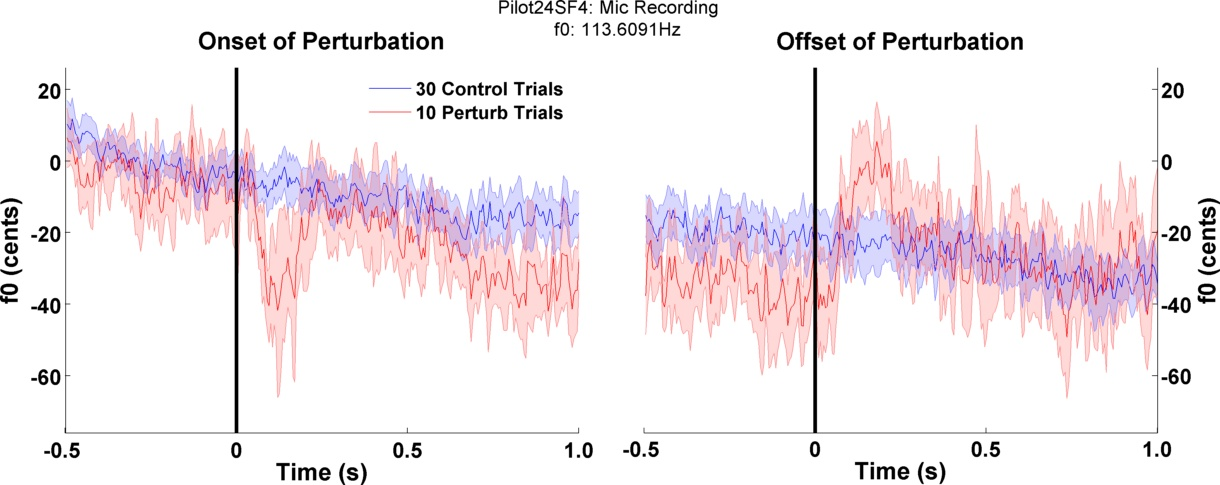
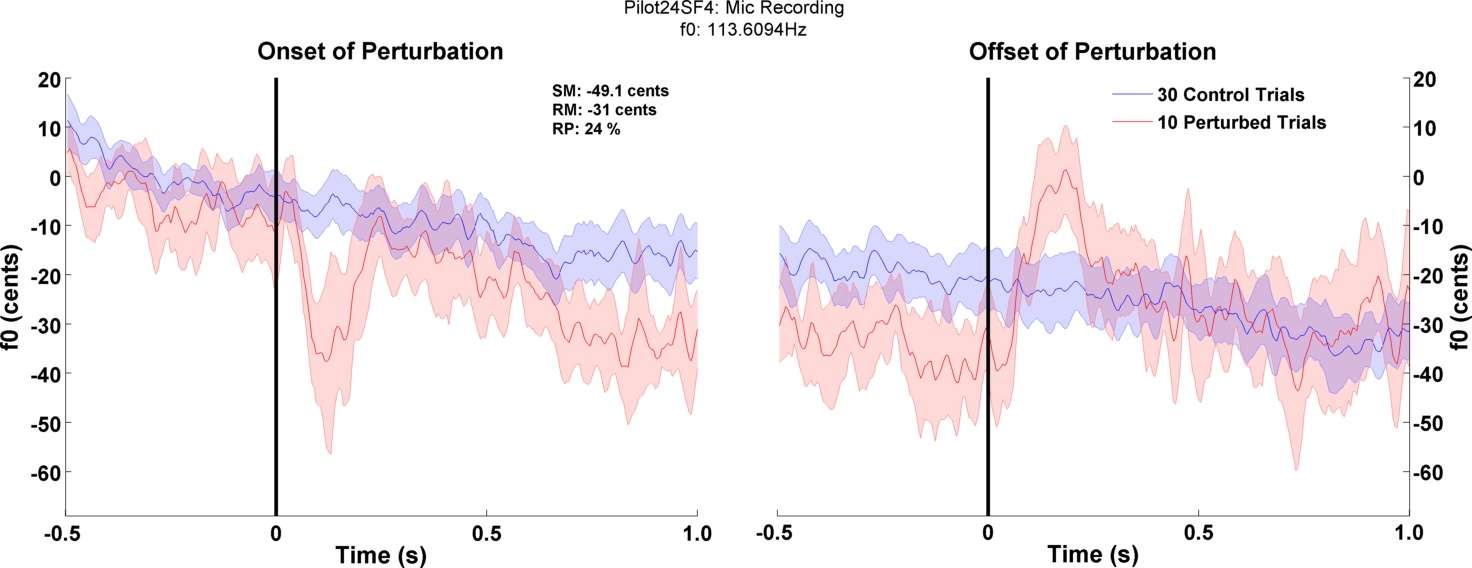
more plots than you know what to do with
here they all are. Love them. Cherish them.

diff --git a/Analysis/dfRunSubjPlotting.m b/Analysis/dfRunSubjPlotting.m
@@ -2,70 +2,78 @@ function dfRunSubjPlotting()
 %The function that draws the plots from analyzed results
 
 clear all; close all; clc
-PltVar.project      = 'Dissociating-Role-of-Feedback-in-Voice-Motor-Control';
-PltVar.participant  = 'Pilot26'; %List of multiple participants.
-PltVar.run          = 'SF4';
+sPlt.project       = 'Dissociating-Role-of-Feedback-in-Voice-Motor-Control';
+sPlt.participants  = {'Pilot24'; 'Pilot25'; 'Pilot26'; 'Pilot22'}; %List of multiple participants.
+sPlt.numPart       = length(sPlt.participants);
+sPlt.runs          = {'SF1'; 'SF2'; 'SF3'; 'SF4'}; %All runs to consider 
+sPlt.numRuns       = length(sPlt.runs);
+dirs               = dfDirs(sPlt.project);
 
 %Plot Toggles. This could eventually become an input variable
 sv2File                = 0;
-PltVar.NIDAQ_allCh     = 0; %Voltage trace of force sensor signal
-PltVar.NIDAQ_PresMic   = 0;
-PltVar.NIDAQ_AligSens  = 0;
-PltVar.NIDAQ_AllPertTrial = 0;
-PltVar.NIDAQ_MeanTrialMicf0 = 1;
-PltVar.IntraTrial_T    = 0; %SPL trace of individual trial
-PltVar.IntraTrial_f0   = 0; %f0 trace for each individual trial
-PltVar.InterTrial_f0   = 0; %Average f0 trace over all trials of a run
-PltVar.IntraTrialP_f0  = 0; %f0 trace of pertrubed trials of a run
-PltVar.InterRun_f0       = 0; %Average f0 trace over all runs analyzed
-PltVar.InterTrial_AudRes = 0; %Average f0 response trace to auditory pert trials of a run
-PltVar.InterRun_AudRes   = 0; %Average f0 response trace to auditory pert over all runs analyzed
+sPlt.NIDAQ_allCh     = 0; %Voltage trace of force sensor signal
+sPlt.NIDAQ_PresMic   = 0;
+sPlt.NIDAQ_AligSens  = 0;
+sPlt.NIDAQ_AllPertTrial = 0;
+sPlt.NIDAQ_MeanTrialMicf0 = 1;
+sPlt.IntraTrial_T    = 0; %SPL trace of individual trial
+sPlt.IntraTrial_f0   = 0; %f0 trace for each individual trial
+sPlt.InterTrial_f0   = 0; %Average f0 trace over all trials of a run
+sPlt.IntraTrialP_f0  = 0; %f0 trace of pertrubed trials of a run
+sPlt.InterRun_f0       = 0; %Average f0 trace over all runs analyzed
+sPlt.InterTrial_AudRes = 0; %Average f0 response trace to auditory pert trials of a run
+sPlt.InterRun_AudRes   = 0; %Average f0 response trace to auditory pert over all runs analyzed
 
-dirs                = dfDirs(PltVar.project);
-dirs.SavResultsDir  = fullfile(dirs.Results, PltVar.participant, PltVar.run); %Where to save results
-dirs.SavResultsFile = fullfile(dirs.SavResultsDir, [PltVar.participant PltVar.run 'ResultsDRF.mat']); %Where to save results
+for ii = 1:sPlt.numPart
+    participant = sPlt.participants{ii};
+    for jj = 1:sPlt.numRuns 
+        run = sPlt.runs{jj};
+        dirs.SavResultsDir  = fullfile(dirs.Results, participant, run); %Where to save results
+        dirs.SavResultsFile = fullfile(dirs.SavResultsDir, [participant run 'ResultsDRF.mat']); %Where to save results
 
-if exist(dirs.SavResultsFile, 'file') == 0
-    fprintf('\nERROR: File %s does not exist!\n', dirs.SavResultsFile)
-    return
+        if exist(dirs.SavResultsFile, 'file') == 0
+            fprintf('\nERROR: File %s does not exist!\n', dirs.SavResultsFile)
+            return
+        end
+
+        %Load 'auAn' 'auRes' 'niAn' 'niRes'
+        load(dirs.SavResultsFile)
+
+        if sPlt.NIDAQ_AllPertTrial == 1
+            drawDAQAllPertTrialMicf0(niRes, dirs.SavResultsDir)
+        end  
+
+        if sPlt.NIDAQ_MeanTrialMicf0 == 1
+            drawDAQMeanTrialMicf0(niRes, dirs.SavResultsDir)
+        end
+
+        if sPlt.InterTrial_f0 == 1
+            drawInterTrialf0(auRes.timeSec, auRes.meanTrialf0_St, auRes.meanTrialf0_Sp, auRes.f0LimitsSec, auRes.trialCount, auRes.meanTrialf0b, auAn.curSess, '', dirs.SavResultsDir)
+        end
+
+        if sPlt.NIDAQ_PresMic == 1
+            drawDAQPresMic(niRes, dirs.SavResultsDir, sv2File)
+        end
+
+        if sPlt.NIDAQ_AligSens == 1
+            drawDAQAlignedPressure(niRes, dirs.SavResultsDir, sv2File)
+        end
+
+        if sPlt.NIDAQ_allCh == 1
+            drawDAQAll(niAn, 2, dirs.SavResultsDir, sv2File)
+        end
+
+        if sPlt.IntraTrialP_f0 == 1
+            drawAllTrialf0(auRes.time, auRes.allTrialf0, auRes.runTrialOrder, auAn.trigsT, auRes.f0Limits, auRes.meanTrialf0b, auAn.curSess, '', dirs.SavResultsDir)
+        end
+
+        if sPlt.InterTrial_AudRes == 1
+            drawAudResp_AllTrial(auRes, auAn.curSess, DRF.expParam.curSess, dirs.SavResultsDir)
+        end
+
+        if sPlt.InterRun_AudRes == 1
+            drawAudResp_InterTrial(auRes.timeSec, auRes.meanTrialf0_St(:,:,2), auRes.meanTrialf0_Sp(:,:,2), auRes.f0LimitsSec, auRes.trialCount, auRes.meanTrialf0b, auAn.curSess, '', dirs.SavResultsDir)
+        end  
+    end
 end
-
-%Load 'auAn' 'auRes' 'niAn' 'niRes'
-load(dirs.SavResultsFile)
-
-if PltVar.NIDAQ_AllPertTrial == 1
-    drawDAQAllPertTrialMicf0(niRes, dirs.SavResultsDir)
-end  
-
-if PltVar.NIDAQ_MeanTrialMicf0 == 1
-    drawDAQMeanTrialMicf0(niRes, dirs.SavResultsDir)
-end
-
-if PltVar.InterTrial_f0 == 1
-    drawInterTrialf0(auRes.timeSec, auRes.meanTrialf0_St, auRes.meanTrialf0_Sp, auRes.f0LimitsSec, auRes.trialCount, auRes.meanTrialf0b, auAn.curSess, '', dirs.SavResultsDir)
-end
-
-if PltVar.NIDAQ_PresMic == 1
-    drawDAQPresMic(niRes, dirs.SavResultsDir, sv2File)
-end
-
-if PltVar.NIDAQ_AligSens == 1
-    drawDAQAlignedPressure(niRes, dirs.SavResultsDir, sv2File)
-end
-
-if PltVar.NIDAQ_allCh == 1
-    drawDAQAll(niAn, 2, dirs.SavResultsDir, sv2File)
-end
-
-if PltVar.IntraTrialP_f0 == 1
-    drawAllTrialf0(auRes.time, auRes.allTrialf0, auRes.runTrialOrder, auAn.trigsT, auRes.f0Limits, auRes.meanTrialf0b, auAn.curSess, '', dirs.SavResultsDir)
-end
-
-if PltVar.InterTrial_AudRes == 1
-    drawAudResp_AllTrial(auRes, auAn.curSess, DRF.expParam.curSess, dirs.SavResultsDir)
-end
-
-if PltVar.InterRun_AudRes == 1
-    drawAudResp_InterTrial(auRes.timeSec, auRes.meanTrialf0_St(:,:,2), auRes.meanTrialf0_Sp(:,:,2), auRes.f0LimitsSec, auRes.trialCount, auRes.meanTrialf0b, auAn.curSess, '', dirs.SavResultsDir)
-end         
 end

diff --git a/Analysis/drawDAQMeanTrialMicf0.m b/Analysis/drawDAQMeanTrialMicf0.m
@@ -67,11 +67,11 @@ set(gca,'XTickLabel', {'-0.5' '0' '0.5' '1.0'},...
 
 suptitle({[curSess ': Mic Recording']; ['   f0: ' num2str(f0b) 'Hz']})
 
-annoStim = ['SM: ' num2str(statSM)];
-annoResp = ['RM: ' num2str(statRM)];
-annoPerc = ['RP: ' num2str(statRP)];
+annoStim = ['SM: ' num2str(statSM) ' cents'];
+annoResp = ['RM: ' num2str(statRM) ' cents'];
+annoPerc = ['RP: ' num2str(statRP) ' %'];
 
-statBox = annotation('textbox',[.25 .75 0.45 0.1],...
+statBox = annotation('textbox',[.38 .75 0.45 0.1],...
                      'string', {annoStim;
                                 annoResp
                                 annoPerc},...
@@ -85,7 +85,7 @@ legend([uH.mainLine pH.mainLine],{[num2str(numCT) ' Control Trials'], [num2str(n
             'Edgecolor', [1 1 1],...
             'FontSize', 14,...
             'FontWeight', 'bold',...
-            'Position', [0.80 0.75 0.1 0.1]);
+            'Position', [0.75 0.75 0.1 0.1]);
 
 plots = {'InterTrialf0DAQ'};
 for i = 1:length(plots)
